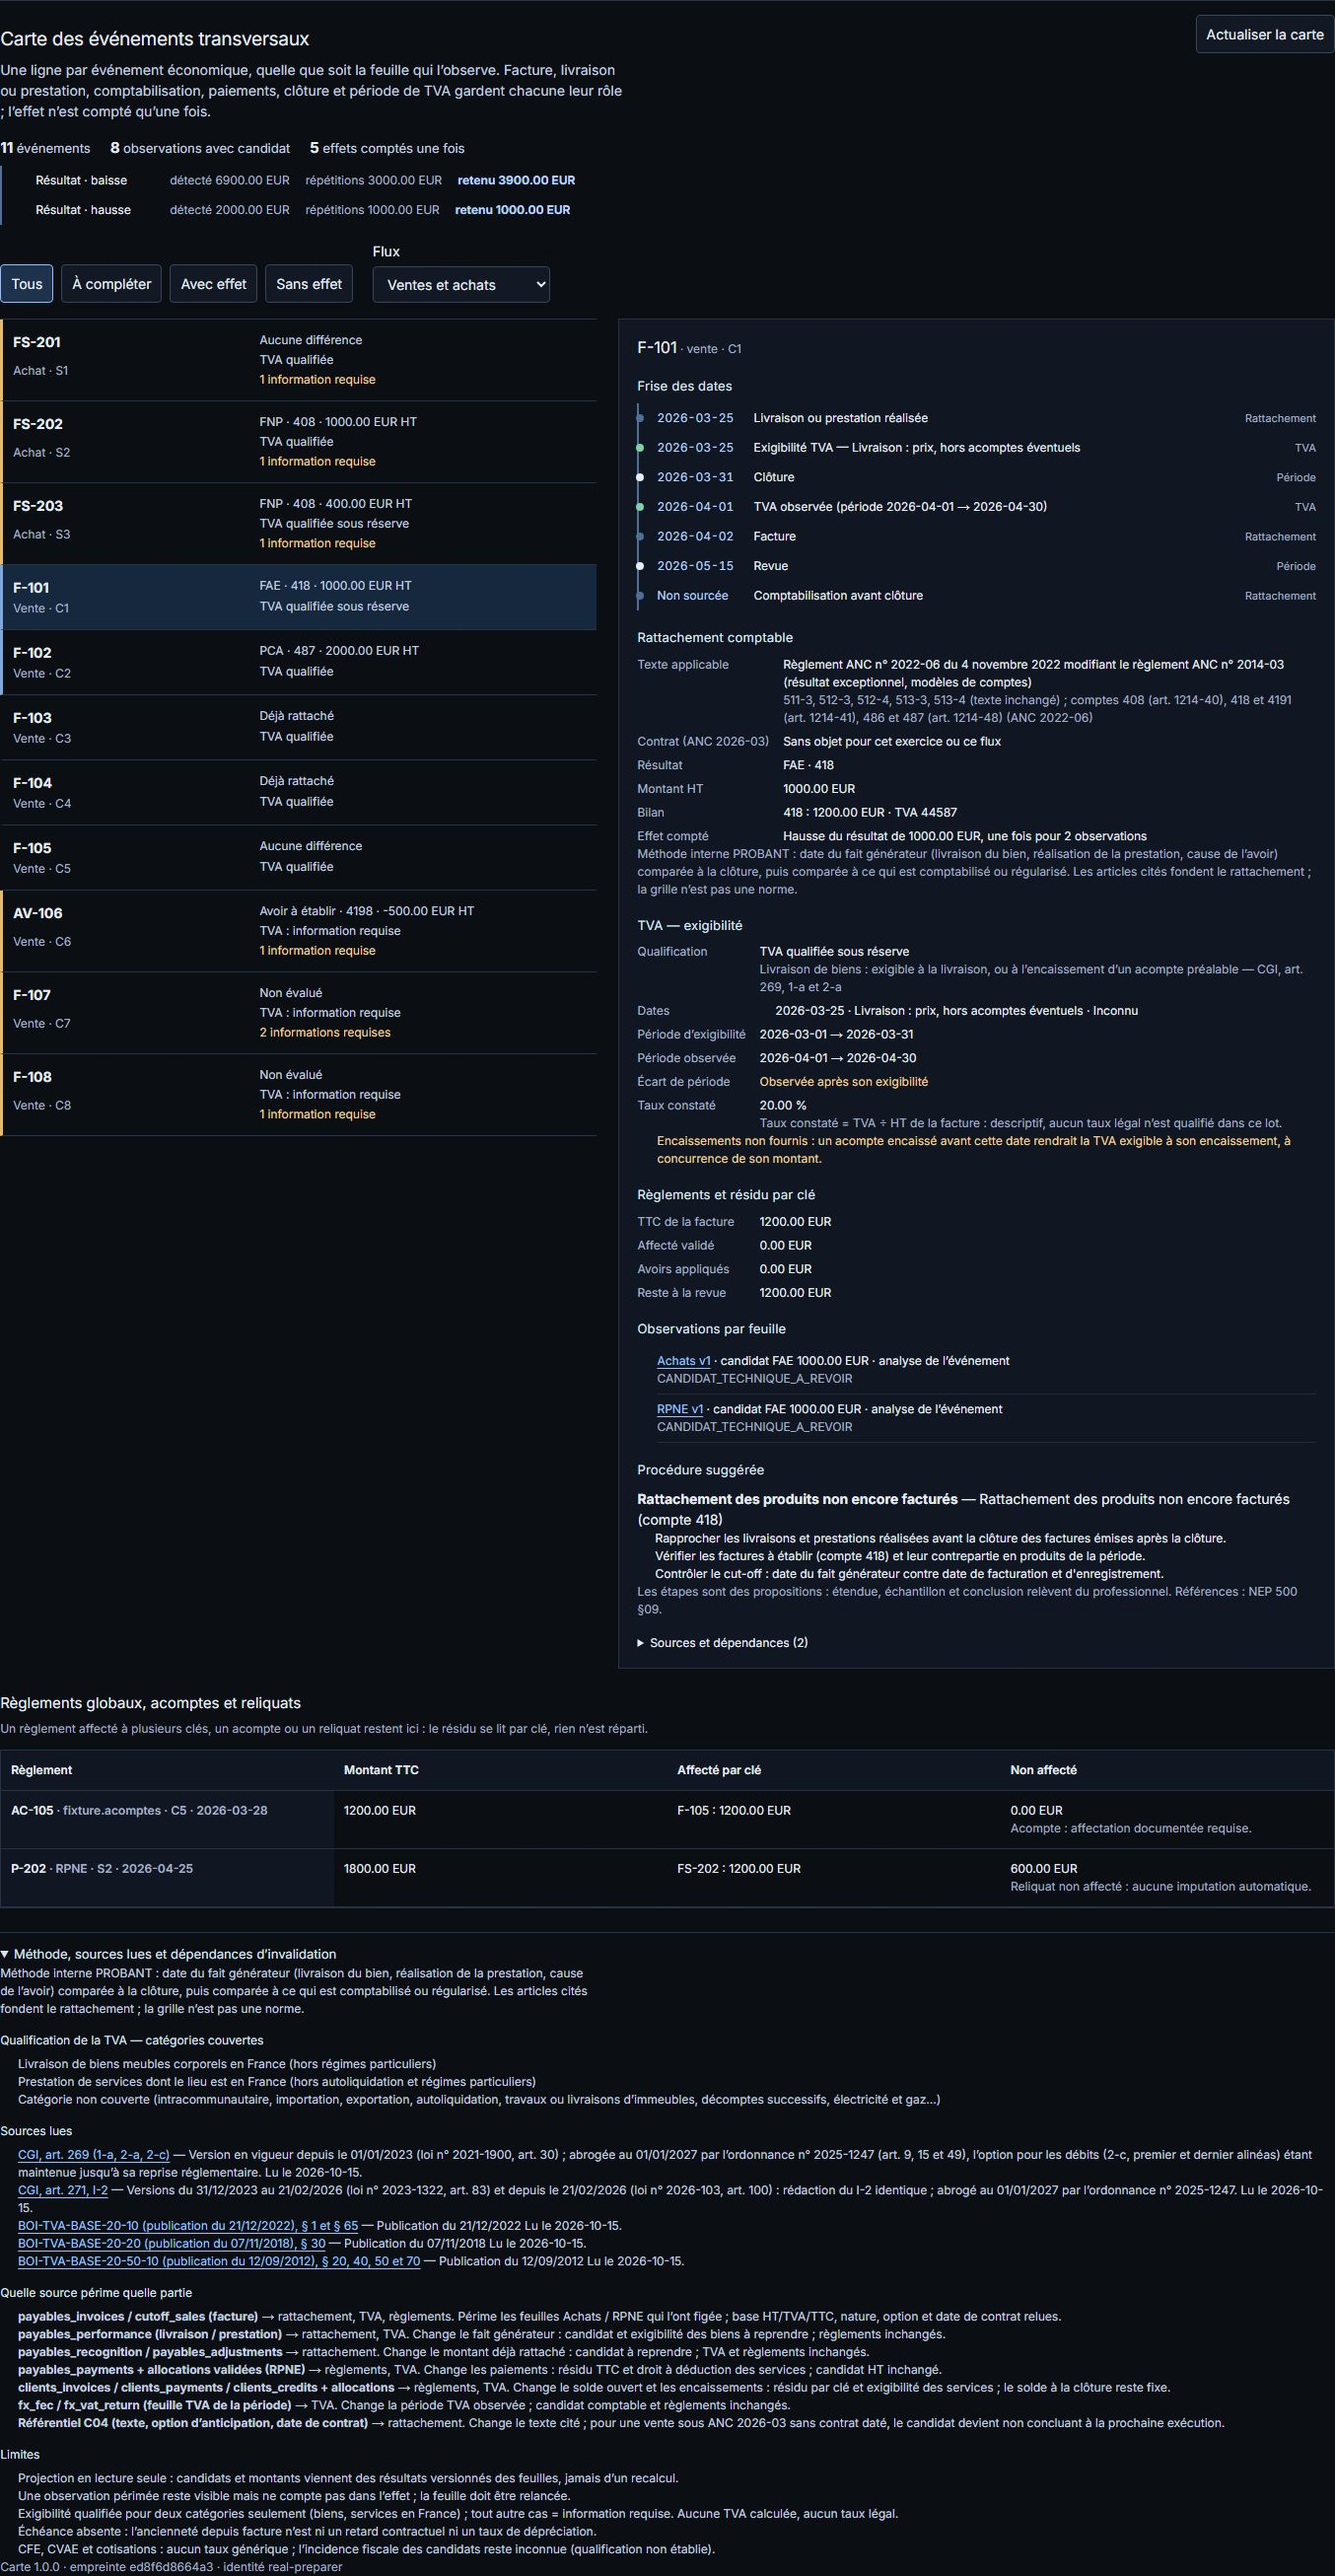
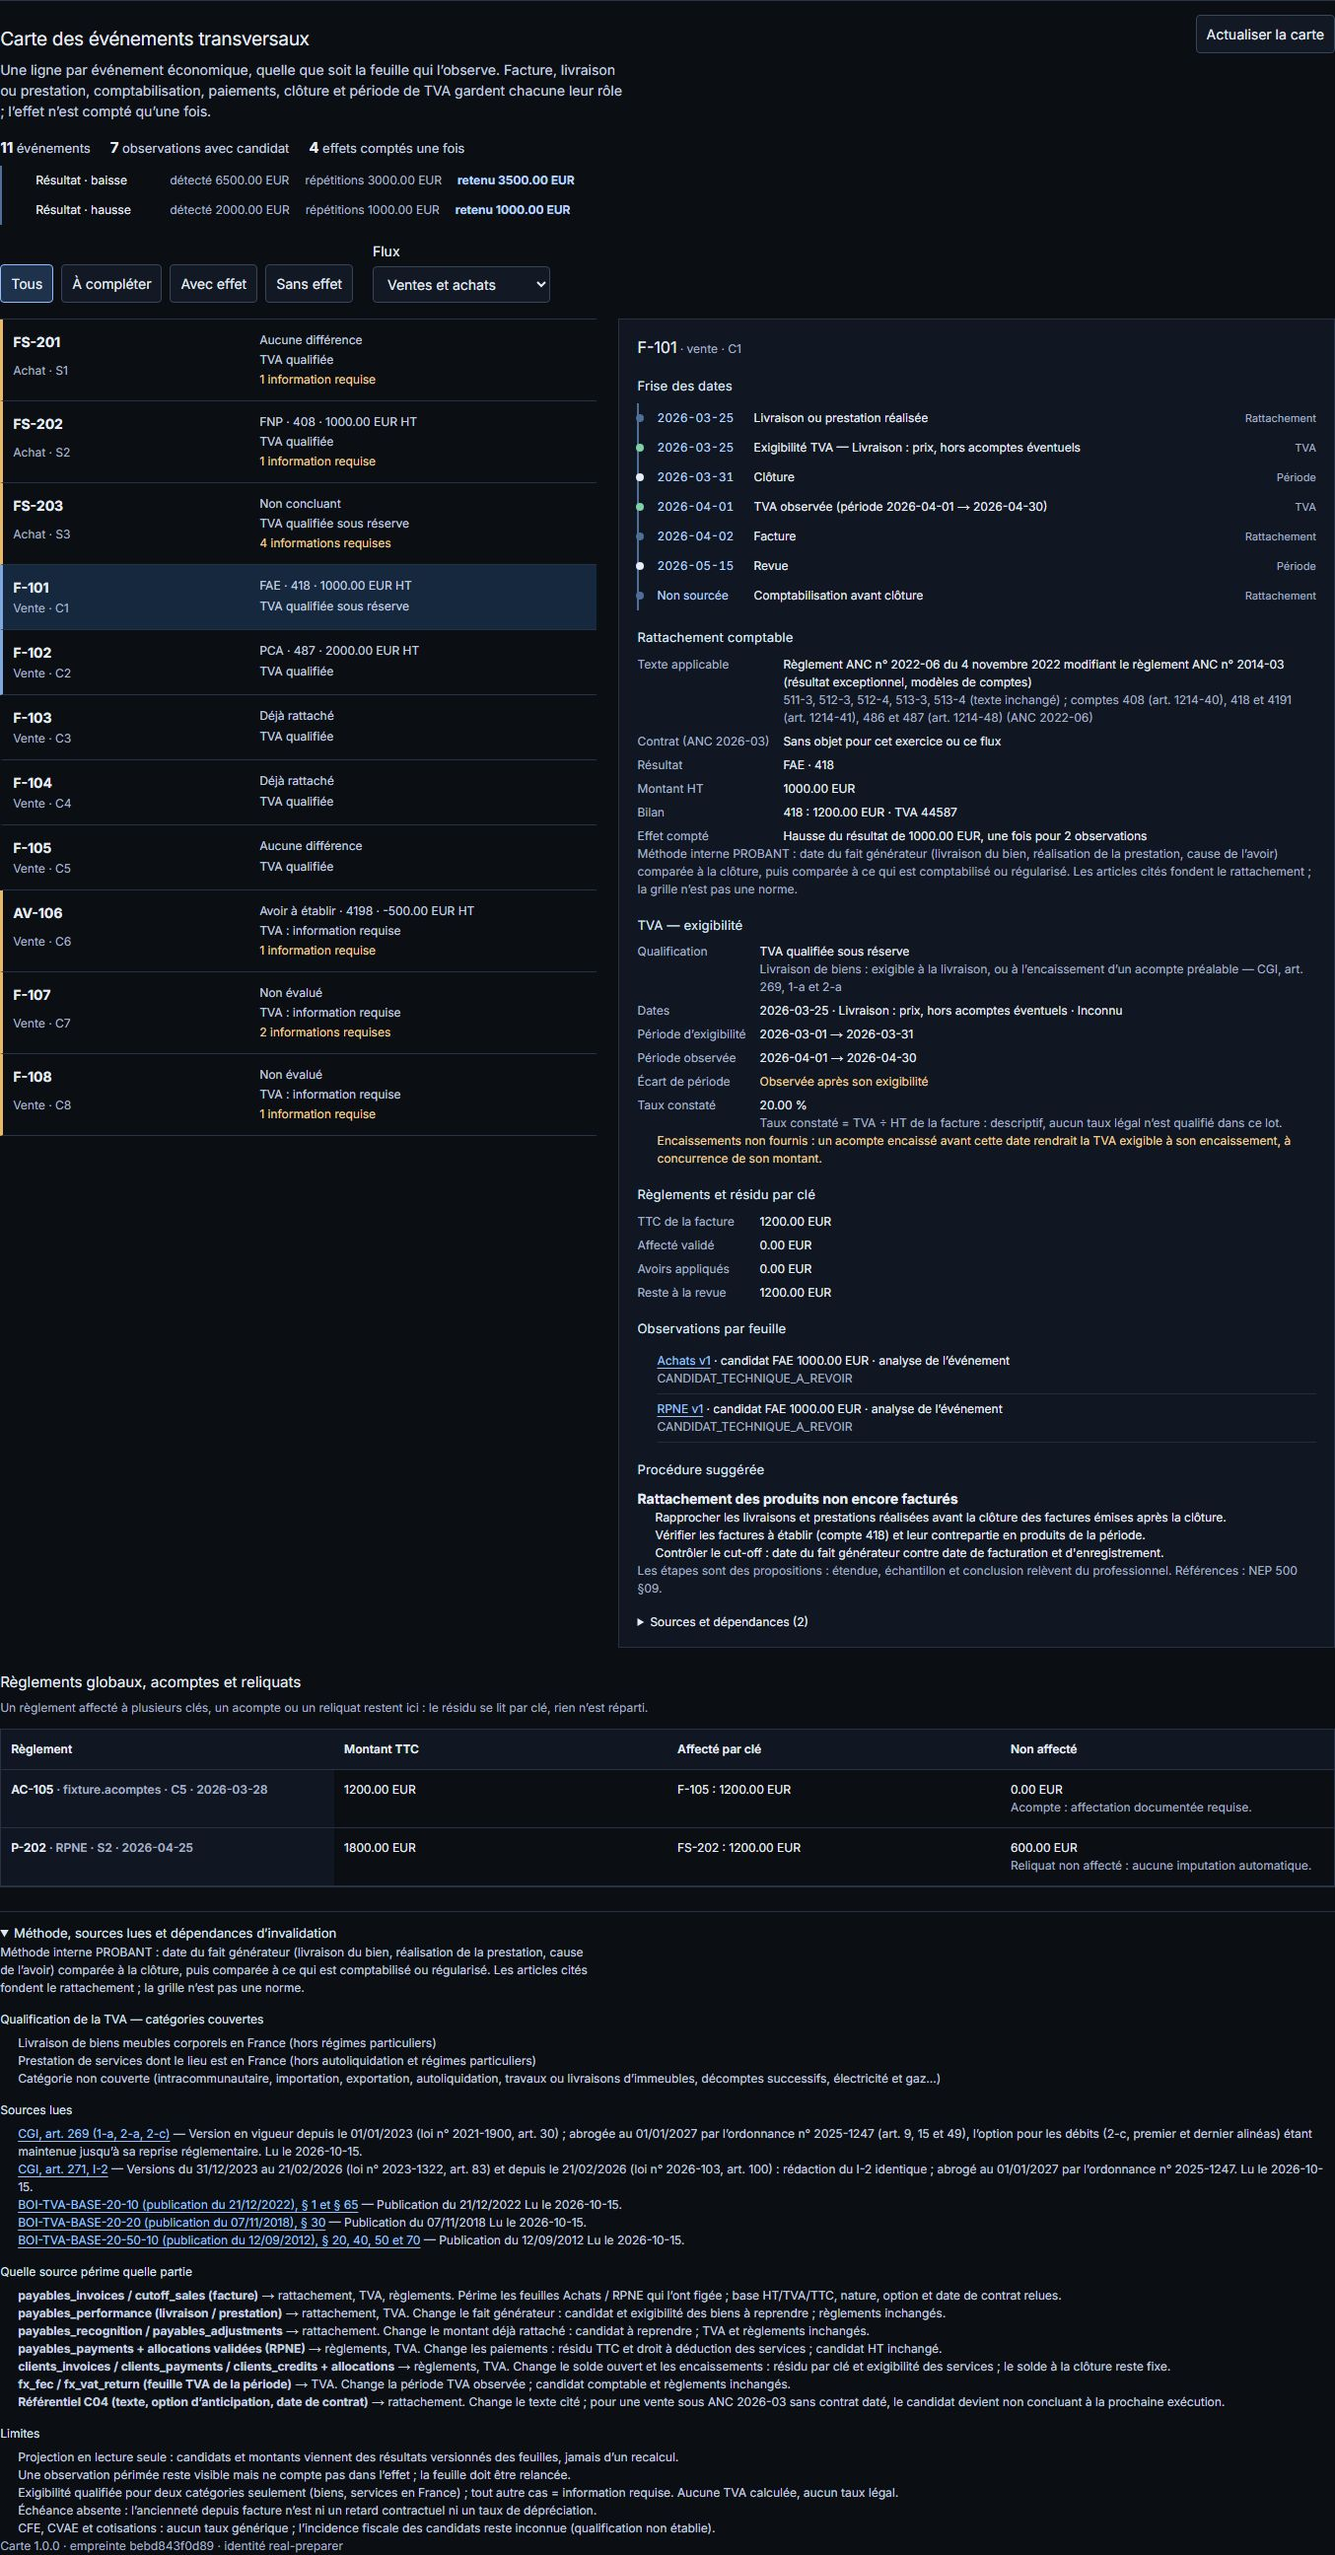
docs(c11): handoff et captures rejouées sur la base fusionnée
Suite Vitest 1 880/1 880 (recettes PostgreSQL incluses), build de
production et e2e 8/8 rejoués après fusion de main (PR #92) ; captures
de /cutoff régénérées à 1440, 1024 et 390 px.

diff --git a/docs/probant-lots/HANDOFF.md b/docs/probant-lots/HANDOFF.md
@@ -1,3 +1,51 @@
+# Handoff — Mission C11 : Clients, achats, cut-off et TVA — événements transversaux (2026-10-15)
+
+**Vérification préalable.** Aucune trace de C11 sur GitHub (PR #1 à #92, branches, commits) ni sur Vercel (déploiements jusqu'à `300829b`) : le lot n'avait pas été traité. Les Missions 07 et 08 (PR #58, #59) avaient livré les chaînes Clients et Achats/cut-off que ce lot raccorde.
+
+**Base.** Worktree `cockpit-fiscalite-dashboard-1c1ba9`, branche `claude/clients-achats-cutoff-tva-881799`, SHA de départ `300829b` (`main` après la PR #91), checkout propre. Écart avec la base du diagnostic `ab8f991` : C00 à C09 et les lots Cloisons, Normatif, éditions du référentiel (PR #90) et en-tête Cloisons (PR #91) fusionnés depuis ; aucun n'avait touché la grille de cut-off, les sources Achats ni la feuille TVA, hormis le résolveur C04 (PR #76), réutilisé. C10 (IS) n'est pas sur `main` : modifications non commitées dans le worktree `quizzical-boyd-13e46a` ; C11 ne recoupe ses fichiers que sur `lib/workpapers/fiscal-runtime.ts` (méthode `vatObservations` ajoutée avant `mission`) et `docs/README.md` (section C11 ajoutée après C09) : conflits de fusion textuels possibles, sans recouvrement fonctionnel. Commits locaux `023bac3` (lot) et `783b7b1` (fusion de `main` après la PR #92) ; rien poussé, aucun merge ni déploiement.
+
+## Cause
+
+- La grille de cut-off ne citait aucun texte : ni l'édition de l'exercice, ni ANC 2026-03 (anticipation, champ contractuel). Le résolveur C04 laissait le champ contractuel non daté (Légifrance 403) et le recueil PCG 2024 « inaccessible ».
+- Un avoir à cause antérieure produisait une « FAE » ou une « FNP » négative.
+- Clients et ventes, Achats / RPNE et TVA ne partageaient aucun événement ; `/cutoff` ne lisait que les feuilles Achats ; quatre dates seulement (fait générateur, facture, comptabilisation, clôture) ; aucun paiement, aucune période TVA ; exigibilité « à qualifier ».
+- La règle Revenu (C03) et le scénario STARTUP-CA-1 parlaient de « transfert du contrôle » (IFRS 15) et de « CCA » pour des produits constatés d'avance.
+
+## Changements
+
+Voir `docs/mission-c11/CONTRAT.md` (§ 1 avant / après, § 3 carte événement → procédures → sources → effets, § 4 dépendances d'invalidation, § 5 qualification TVA, § 7 sources lues).
+
+## Sources
+
+Lues le 15/10/2026, empreintes vérifiées contre le registre C04 : PCG 2024 (`f608f78f…`), ANC 2022-06 (`aeaa05cf…`), PCG consolidé 2026 (`b9e7a732…`), ANC 2026-03 (`59330e81…`) ; arrêté du 12/08/2026 (Légifrance, navigateur) ; CGI 269 et 271 (Légifrance) ; BOI-TVA-BASE-20-10, 20-20, 20-50-10 (BOFiP). **Écarts du registre fiscal consignés, non corrigés** (art. 269 : 01/01/2022 → 31/08/2026 au registre, 01/01/2023 → 31/12/2026 sur Légifrance ; art. 271 : aucune version avant le 21/02/2026 alors que le I-2 est identique depuis le 31/12/2023) : les corriger changerait la couverture du moteur TVA et la recette Mission 13.
+
+## Cas contrôlés
+
+| Contrôle | Résultat |
+|---|---|
+| Recette C11 (`c11-transversal-events.test.ts`) : texte applicable (exercices 2025-2026, 2026 avec et sans option, 2027 selon la date du contrat), moteur de cut-off réel sur les 8 cas, carte (dates, TVA, règlements, observations), pont C05, procédures C03, divergence, péremption | 33 / 33 |
+| Raccord de la chaîne réelle Mission 08 (`c11-event-map-adapter.test.ts`) : D compté une fois 600 HT, G suspendu comme dans la synthèse Achats, feuille périmée hors effet | 2 / 2 |
+| Résidus par clé et compensation globale (`c11-compensation.test.ts`) : net 0 masquant ±50 → brut 100 ; clé absente → partiel | 2 / 2 |
+| Résolveur C04 (`french-gaap.test.ts`), dont 3 cas C11 | 17 / 17 |
+| Recette PostgreSQL 17 jetable locale (`clients-durable` + `fiscal-durable`), dont le cas C11 `operation=events` (effet unique de D, reliquat de G, feuille Clients périmée par sa révision, refus inter-organisation, paramètres refusés) | 31 / 31 |
+| Avant / après de la grille (`docs/recette/c11/AVANT-APRES-cutoff.json`, moteur 1.0.0 de `300829b` contre 1.1.0) | Factures : 8 résultats identiques ; avoir AV-106 : « FAE −500 » → « AAE −500 » ; texte cité en 1.1.0 |
+| Suite Vitest complète sur `300829b` + C11 (avant fusion de la PR #92) | 1 870 / 1 875 ; les 5 échecs sont ceux de `main` corrigés par la PR #92 (éd. 3 du référentiel), sans lien avec C11 |
+| Suite Vitest complète après fusion de `main` (`783b7b1`) | 182 fichiers, 1 880 / 1 880 (recettes PostgreSQL incluses, base jetable locale) |
+| E2E sur build de production : `c11-carte-evenements.spec.ts` à 1440, 1024 et 390 px (clavier, focus du panneau, axe WCAG 2.1 AA, aucun débordement, mouvement réduit) et `payables.spec.ts` (dont `/cutoff` adapté à la carte) | 8 / 8 ; captures relues aux trois largeurs |
+| `tsc --noEmit`, ESLint des fichiers modifiés ; `next build` de production après fusion | aucune erreur ; build OK |
+
+Captures : `docs/probant-lots/c11-captures/cutoff-carte-{1440,1024,390}.jpg`.
+
+Correction consignée de la recette : l'attendu du cas 8 a été révisé pendant le lot (voir `docs/recette/c11/RECETTE.md`, « Corrections consignées ») pour suivre la règle de la synthèse Achats : une procédure qui teste l'événement et ne conclut pas suspend l'effet.
+
+## Limites restantes
+
+- Acomptes encaissés avant la clôture et cause datée d'un avoir post-clôture : non sourcés dans la chaîne réelle (qualification partielle ou information requise, affichées comme telles).
+- Option d'anticipation d'ANC 2026-03 non sourcée ; option pour les débits déclarée par facture (original à corroborer).
+- Avoirs non importables comme événements de cut-off ; TVA sur avoirs (272, 267) non couverte ; prix variables, contrats à long terme, droits de retour non implémentés.
+- Les constats C05 de la carte ne sont pas versés dans la Synthèse du dossier (lot C14).
+- Écarts du registre fiscal (art. 269, 271) à corriger dans un lot dédié.
+
 # Handoff — Audit Normatif 360 à 390 px, navigation vers la liste des cycles, tiroirs de navigation (2026-10-14)
 
 **Base.** Worktree `probant-analysis-setup-41121f`, branche `claude/competent-borg-3d6941`, SHA de départ `ff3f9fb` (`main` après la PR #84 C08), checkout propre. Le module Normatif n'avait pas bougé depuis son introduction (`fb43c8e`). Fichiers applicatifs modifiés : `app/normatif/layout.tsx`, `components/normatif/CycleSidebar.tsx`, `app/normatif/sources/[slug]/page.tsx`, `components/normatif/IFRSvsPCGPanel.tsx`. La demande citait `NormatifSidebar` ; le composant réel s'appelle `CycleSidebar`. Aucun contenu modifié, aucun merge ni déploiement.
